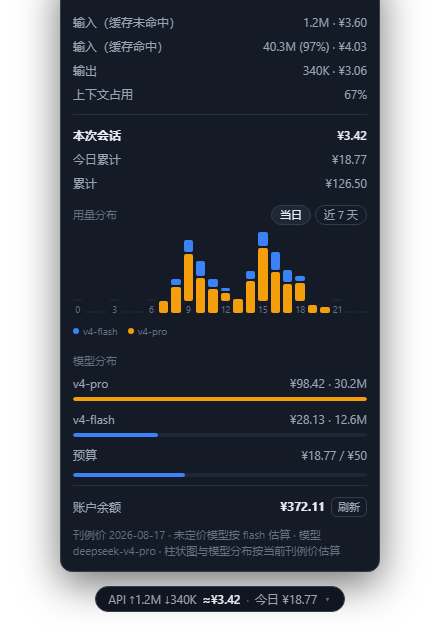
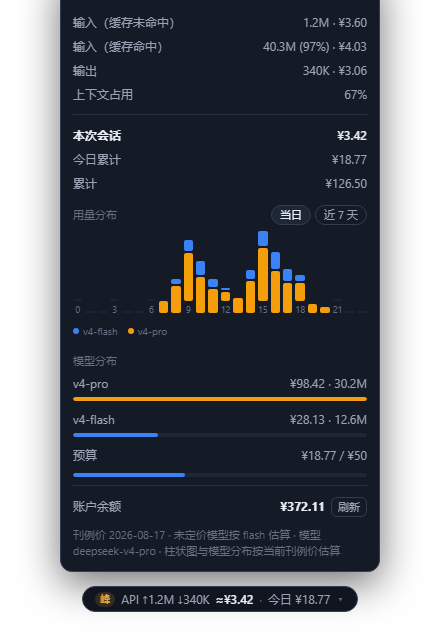
feat: peak/off-peak tier pill on the chip button (v1.5.2)
- chip shows 峰 (orange) / 谷 (green) for the current pricing tier,
  with hover tooltip listing peak hours
- zh/en locales, tier styles, refreshed preview image

diff --git a/lib/client.js b/lib/client.js
@@ -183,6 +183,10 @@ window.__ModuleLoader__.load({
 			"meter.grand": "累计",
 			"meter.peak": "高峰价",
 			"meter.offpeak": "空闲价",
+			"meter.tier.peakShort": "峰",
+			"meter.tier.valleyShort": "谷",
+			"meter.tier.peakTitle": "高峰价（北京时间 09:00–12:00、14:00–18:00）",
+			"meter.tier.valleyTitle": "空闲价（非高峰时段）",
 			"meter.balance": "账户余额",
 			"meter.budget": "预算",
 			"meter.noData": "暂无用量数据",
@@ -214,6 +218,10 @@ window.__ModuleLoader__.load({
 			"meter.grand": "Total",
 			"meter.peak": "peak price",
 			"meter.offpeak": "off-peak price",
+			"meter.tier.peakShort": "Peak",
+			"meter.tier.valleyShort": "Off-peak",
+			"meter.tier.peakTitle": "Peak pricing (Beijing time 09:00–12:00, 14:00–18:00)",
+			"meter.tier.valleyTitle": "Off-peak pricing",
 			"meter.balance": "Balance",
 			"meter.budget": "Budget",
 			"meter.noData": "No usage data yet",
@@ -240,6 +248,12 @@ window.__ModuleLoader__.load({
 			},
 			triggerHover: { background: "var(--dsw-alias-interactive-bg-hover)" },
 			chevron: { fontSize: "10px", lineHeight: "20px", color: "var(--dsw-alias-label-caption)" },
+			chipTier: {
+				fontSize: "10px", lineHeight: "15px", padding: "0 5px", borderRadius: "999px",
+				fontWeight: 600, flex: "none", fontVariantNumeric: "tabular-nums",
+			},
+			chipTierPeak: { color: "var(--dsw-alias-state-warn-label)", background: "rgba(224, 163, 60, 0.16)" },
+			chipTierValley: { color: "var(--dsw-alias-state-success-primary)", background: "rgba(45, 164, 78, 0.16)" },
 			cost: { fontVariantNumeric: "tabular-nums", color: "var(--dsw-alias-label-primary)", fontWeight: 500 },
 			costWarn: { fontVariantNumeric: "tabular-nums", color: "var(--dsw-alias-state-warn-label)", fontWeight: 500 },
 			costOver: { fontVariantNumeric: "tabular-nums", color: "var(--dsw-alias-state-error-primary)", fontWeight: 500 },
@@ -492,6 +506,11 @@ window.__ModuleLoader__.load({
 						onMouseEnter: () => setHovered(true),
 						onMouseLeave: () => setHovered(false),
 						children: [
+							react_jsx_runtime.jsx("span", {
+								style: { ...styles.chipTier, ...(prices.peak ? styles.chipTierPeak : styles.chipTierValley) },
+								title: prices.peak ? t("meter.tier.peakTitle") : t("meter.tier.valleyTitle"),
+								children: prices.peak ? t("meter.tier.peakShort") : t("meter.tier.valleyShort"),
+							}),
 							t("meter.chipPrefix", { input: formatTokens(input), output: formatTokens(out) }),
 							react_jsx_runtime.jsx("span", { style: costClass, children: "≈" + chipCost }),
 							chipToday !== null && react_jsx_runtime.jsxs(react.Fragment, {

diff --git a/docs/preview-panel.html b/docs/preview-panel.html
@@ -63,6 +63,10 @@
     color: var(--text2); background: #10151f; border: 1px solid var(--border-strong);
     border-radius: 999px; padding: 2px 12px; white-space: nowrap;
   }
+  .chip .tier {
+    font-size: 10px; line-height: 15px; padding: 0 5px; border-radius: 999px; font-weight: 600;
+  }
+  .chip .tier.peak { color: #e0a33c; background: rgba(224,163,60,.16); }
   .cost { font-variant-numeric: tabular-nums; color: var(--text); font-weight: 600; }
   .dot-sep { color: var(--text3); }
   .chev { color: var(--text3); font-size: 10px; }
@@ -101,7 +105,7 @@
     <div class="footer">刊例价 2026-08-17 · 未定价模型按 flash 估算 · 模型 deepseek-v4-pro · 柱状图与模型分布按当前刊例价估算</div>
   </div>
   <div class="chip-wrap">
-    <span class="chip">API ↑1.2M ↓340K <span class="cost">≈¥3.42</span> <span class="dot-sep">·</span> 今日 ¥18.77 <span class="chev">▾</span></span>
+    <span class="chip"><span class="tier peak" title="高峰价（北京时间 09:00–12:00、14:00–18:00）">峰</span> API ↑1.2M ↓340K <span class="cost">≈¥3.42</span> <span class="dot-sep">·</span> 今日 ¥18.77 <span class="chev">▾</span></span>
   </div>
 <script>
   // 24h usage: [proCost, flashCost] in yuan

diff --git a/README.md b/README.md
@@ -39,7 +39,7 @@
 
 ## 功能特性
 
-- ⚡ **实时费用**：输入框下方一行 `API ↑输入 ↓输出 ≈费用 · 今日 ¥X`，随流式输出实时刷新
+- ⚡ **实时费用**：输入框下方一行 `API ↑输入 ↓输出 ≈费用 · 今日 ¥X`，随流式输出实时刷新；按钮前缀**「峰 / 谷」时段标签**——高峰橙色、空闲绿色，悬停显示具体时段（北京时间 09:00–12:00、14:00–18:00 为高峰）
 - 📊 **用量分布柱状图**：
   - **当日（默认）**：24 小时级柱状图，横轴每 3 小时标注
   - **近 7 天**：每日柱状图，一键切换
